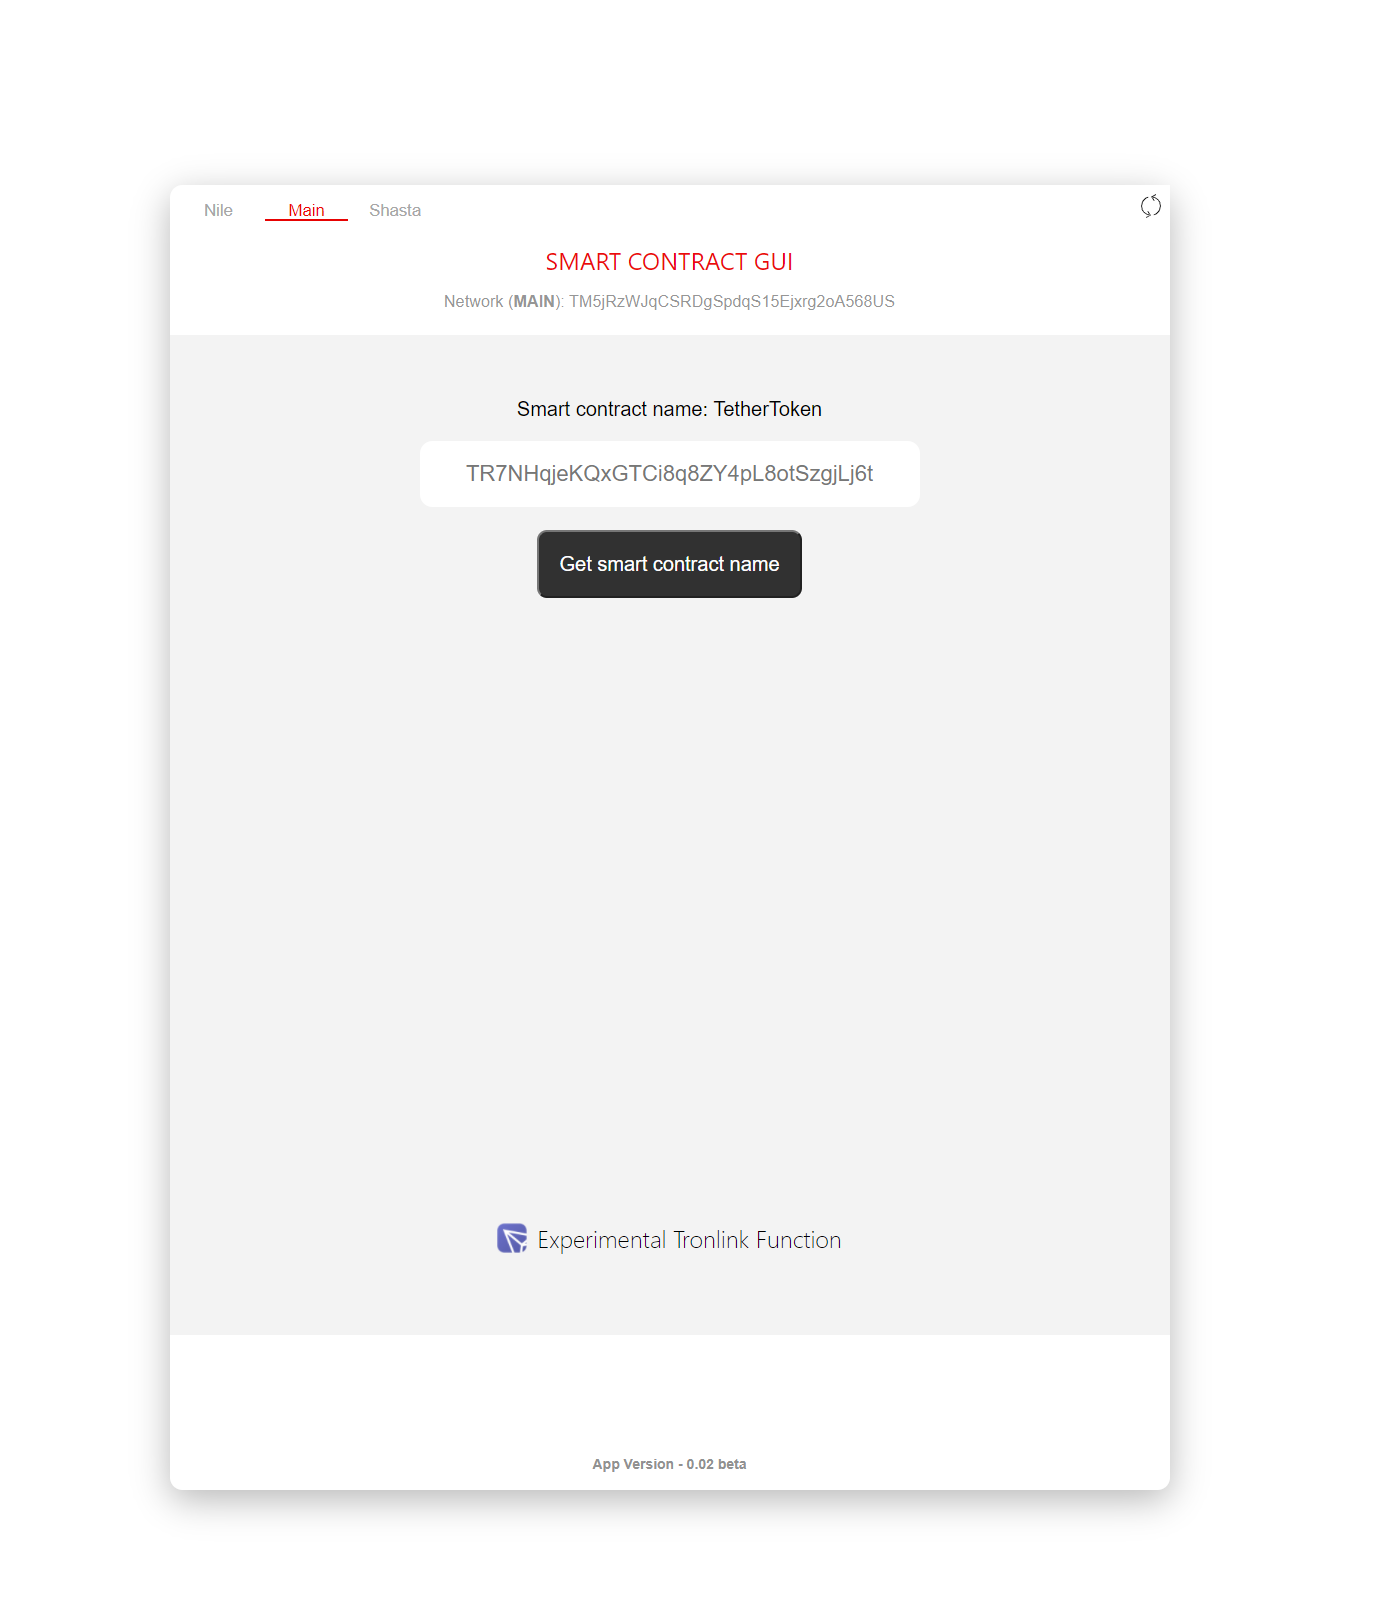
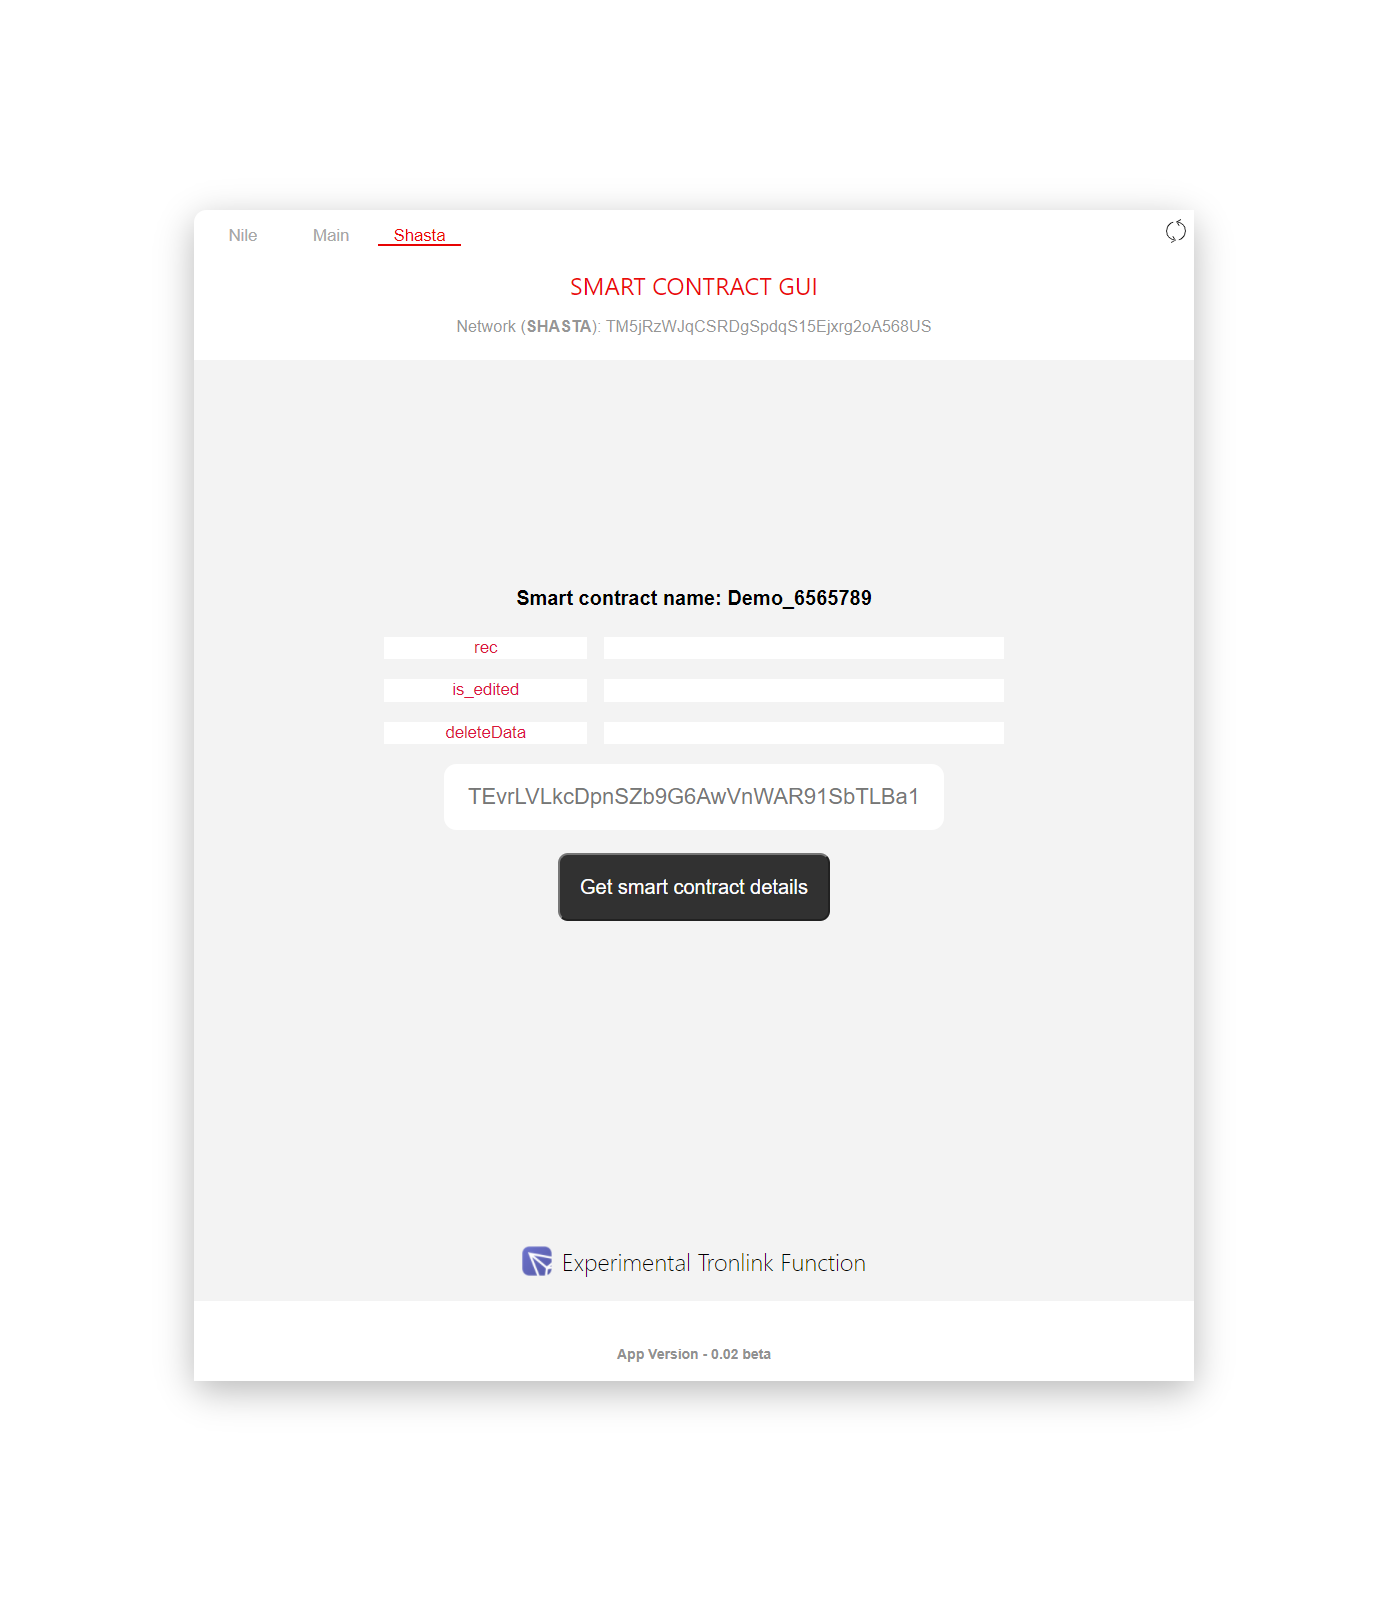
v.0.03 update

diff --git a/src/components/Card.js b/src/components/Card.js
@@ -1,5 +1,6 @@
 import React, { useState, useEffect } from 'react';
 import classes from './Card.module.css';
+import ContractExtracted from './ContractExtracted';
 import NetworkStates from './NetworkStates';
 import Refresh from './Refresh';
 import TronlinkFunctions from './TronlinkFunctions';
@@ -13,11 +14,14 @@ const HttpProvider = TronWeb.providers.HttpProvider;
 // shasta - TEvrLVLkcDpnSZb9G6AwVnWAR91SbTLBa1
 //nile - TQb1aN3aXVoZM2kikSoZfFbXda4hK8R44w
 //MAINNET - TSYmsMxx2m9b5o8ZDLXT2fAGSXNY2RgDL6
+//MAIN USDT - TR7NHqjeKQxGTCi8q8ZY4pL8otSzgjLj6t
+
 
 const Card = () => {
   const [myAddress, setmyAddress] = useState('Loading...');
   const [contrAdrress, setcontrAdrress] = useState('');
   const [contractName, setcontractName] = useState('null');
+  const [fetchedFuncs, setFetchedFuncs] = useState([]);
   const [network, setNetwork] = useState('SHASTA');
   //set nodes
   const [fullNode, setfullNode] = useState('https://api.shasta.trongrid.io');
@@ -73,8 +77,7 @@ const Card = () => {
       let contract = await tronWeb.trx.getContract(contrAdrress);
       let result = await contract.name;
       setcontractName(result);
-
-      console.log(contract.abi.entrys[1].name);
+      setFetchedFuncs(contract.abi.entrys)
     } catch (error) {
       console.error('trigger smart contract error', error);
       setcontractName(error);
@@ -116,8 +119,20 @@ const Card = () => {
         </p>
 
         <div className={classes.content}>
-          <br></br>
-          <p>Smart contract name: {contractName}</p>
+          <h4>Smart contract name: {contractName}</h4>
+     
+
+<div className={classes.functionLi}>
+{fetchedFuncs.map((func) => (
+            <ContractExtracted
+              functionName={func.name}
+              id={func.id}
+              key={Math.random()}
+              stateMutability={func.stateMutability}
+            />
+          ))}
+</div>
+     
           <input
             type="text"
             onChange={contractImputHandler}
@@ -126,12 +141,14 @@ const Card = () => {
           <div>
             <br></br>
           </div>
-          <button onClick={getContractName} className={classes.contrctButton}>Get smart contract name</button>
+          <button onClick={getContractName} className={classes.contrctButton}>
+            Get smart contract details
+          </button>
           <TronlinkFunctions clicked={doSomething} />
         </div>
 
         <div className={classes.foot}>
-          <h4>App Version - 0.02 beta</h4>
+          <h4>App Version - 0.03 beta</h4>
         </div>
       </div>
     </div>

diff --git a/src/components/reload.js b/src/components/reload.js
@@ -1,0 +1,59 @@
+effects: function(e) {
+    return {
+        reloadTronWebWallet: function() {
+            var t = Object(o.a)(c.a.mark(function t() {
+                var n, r;
+                return c.a.wrap(function(t) {
+                    for (; ; )
+                        switch (t.prev = t.next) {
+                        case 0:
+                            n = 10;
+                        case 1:
+                            if (!(n-- > 0)) {
+                                t.next = 12;
+                                break
+                            }
+                            return t.next = 4,
+                            Object(B.b)();
+                        case 4:
+                            if (!(r = t.sent) || !r.defaultAddress) {
+                                t.next = 8;
+                                break
+                            }
+                            return e.wallet.setWalletAddress(r.defaultAddress.base58),
+                            t.abrupt("break", 12);
+                        case 8:
+                            return t.next = 10,
+                            Object(C.a)(1e3);
+                        case 10:
+                            t.next = 1;
+                            break;
+                        case 12:
+                        case "end":
+                            return t.stop()
+                        }
+                }, t)
+            }));
+            return function() {
+                return t.apply(this, arguments)
+            }
+        }(),
+        reloadWallet: function() {
+            var t = Object(o.a)(c.a.mark(function t(n) {
+                return c.a.wrap(function(t) {
+                    for (; ; )
+                        switch (t.prev = t.next) {
+                        case 0:
+                            e.wallet.reloadExchangeWallet(n);
+                        case 1:
+                        case "end":
+                            return t.stop()
+                        }
+                }, t)
+            }));
+            return function(e) {
+                return t.apply(this, arguments)
+            }
+        }(),
+    }
+}

diff --git a/src/components/Card.module.css b/src/components/Card.module.css
@@ -1,8 +1,8 @@
 .cardGrid {
-  height: 93em;
+  height: auto;
   display: grid;
   grid-template-columns: auto 20em 50em 20em auto;
-  grid-template-rows: 20em auto auto;
+  grid-template-rows: 20em auto auto 10em;
 }
 
 .card {
@@ -47,9 +47,15 @@
 
 .content {
   background: rgba(235, 235, 235, 0.589);
-  height: 50em;
+  height: auto;
   text-align: center;
-  padding-top: 1em;
+  padding-top: 10em;
+}
+
+.functionLi {
+  /* background-color: brown; */
+  /* padding-left: 5em;
+  padding-right: 5em; */
 }
 
 .contrctButton {
@@ -84,6 +90,8 @@
   position: absolute;
   bottom: 0;
   width: 100%;
+  background-color: white;
+
 }
 
 .foot h4 {

diff --git a/src/components/ContractExtracted.module.css b/src/components/ContractExtracted.module.css
@@ -1,0 +1,33 @@
+.functionItems {
+  /* background-color: aquamarine; */
+  /* display: flex; */
+
+    /* justify-content:  space-evenly ; */
+
+    text-align: left;
+  
+  
+}
+.listGrid {
+  
+display: grid;
+grid-template-columns: 7em 11em 20em 5em auto;
+}
+
+
+.functionLabel {
+  /* margin-right: 5em; */
+/* text-align: right; */
+margin-right: 1em;
+grid-column-start: 2;
+border: none;
+background-color: white;
+color: crimson;
+
+}
+
+
+.functionInput {
+   
+    border: none;
+}

diff --git a/src/components/ContractExtracted.js b/src/components/ContractExtracted.js
@@ -1,0 +1,17 @@
+import React from 'react';
+import classes from './ContractExtracted.module.css';
+
+const ContractExtracted = (props) => {
+  return (
+    <div className={classes.functionItems}>
+      <ul className={classes.listGrid}>
+          
+        <button className={classes.functionLabel}>{props.functionName}</button>
+        <input type="text" className={classes.functionInput}></input>
+     
+      </ul>
+    </div>
+  );
+};
+
+export default ContractExtracted;

diff --git a/src/components/TronlinkFunctions.module.css b/src/components/TronlinkFunctions.module.css
@@ -1,7 +1,9 @@
 .experimental {
-  margin-top: 30em;
+  margin-top: 15em;
+  margin-bottom: 4em;
   display: flex;
   justify-content: center;
+
 }
 
 .tronlinkButton {

diff --git a/src/index.css b/src/index.css
@@ -4,8 +4,10 @@
 
 html {
   font-family: sans-serif;
+
 }
 
 body {
   margin: 0;
+
 }

diff --git a/README.md b/README.md
@@ -23,3 +23,10 @@ Feel free to add extra functions or improvements, This helps me to more familiar
 - Added ability to select test net Nile, Shasta or Main Tron network
 - UI Improvements
 
+## Changes in V 0.03
+
+- Added ability to get Smart contract details
+- Added ability to fetch and render Smart contract functions
+- Added grid for Smart contract rendering
+- Optimised UI for large list of functions
+
